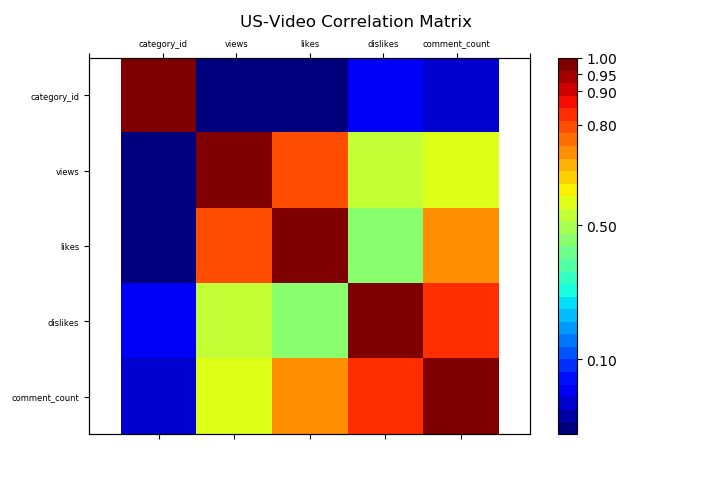
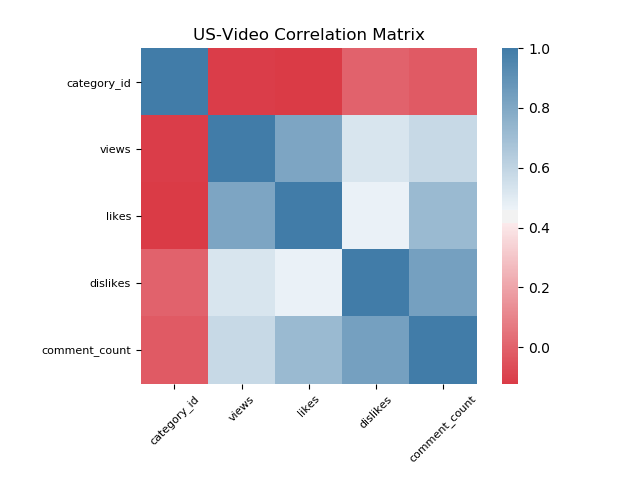
modified correlation

diff --git a/youtube_trend.py b/youtube_trend.py
@@ -4,6 +4,7 @@ import sys
 
 import matplotlib.pyplot as plt
 from matplotlib import cm as cm
+import seaborn as sns
 
 '''
 Sample of Data Analytics on Youtube Trending Using Python
@@ -20,25 +21,16 @@ class Plot_trend:
         print(selected_corr)
 
         fig = plt.figure()
-        fig.suptitle('US-Video Correlation Matrix', y=0.97)
         ax1 = fig.add_subplot(111)
-        #ax1.grid(True)
-        cmap = cm.get_cmap('jet', 30)
+        sns.heatmap(selected_corr, mask=np.zeros_like(selected_corr, dtype=np.bool),
+                    cmap=sns.diverging_palette(10, 240, as_cmap=True), xticklabels=selected_corr.columns.values,
+                    yticklabels=selected_corr.columns.values,square=True, ax=ax1)
+        ax1.set_title('US-Video Correlation Matrix')
+        ax1.set_xticklabels(selected_corr.columns.values, rotation=45, fontsize=8)
+        ax1.set_yticklabels(selected_corr.columns.values, fontsize=8)
 
-        cax = ax1.imshow(selected_corr, interpolation="nearest", cmap=cmap )
-        #plt.title('US-Video Correlation Matrix')
-        labels = ['','category_id','views', 'likes', 'dislikes','comment_count']
-
-        ax1.set_xticklabels([])
-        ax1.set_yticklabels(labels, fontsize=6)
-
-        ax2 = ax1.twiny()
-        ax2.set_xlim(ax1.get_xlim())
-        ax2.set_xticks(ax1.get_xticks())
-        ax2.set_xticklabels(labels, fontsize=6)
-
-        # Add colorbar, make sure to specify tick locations to match desired ticklabels
-        fig.colorbar(cax, ticks=[.1, .5, .8, .90, .95, 1])
+        # Tweak spacing to prevent clipping of tick-labels
+        plt.subplots_adjust(top=.9,bottom=0.2)
 
         plt.show()
 
